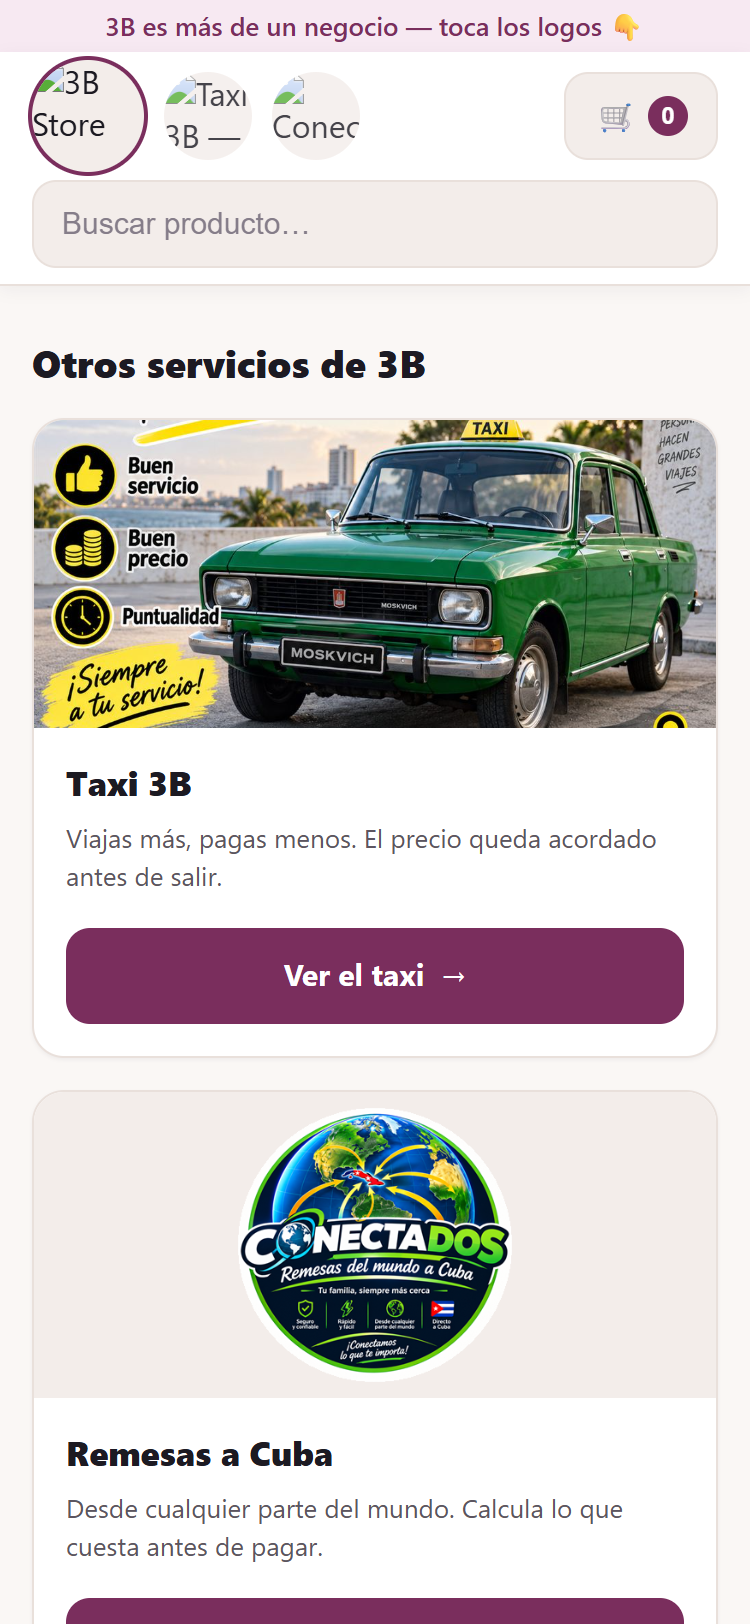
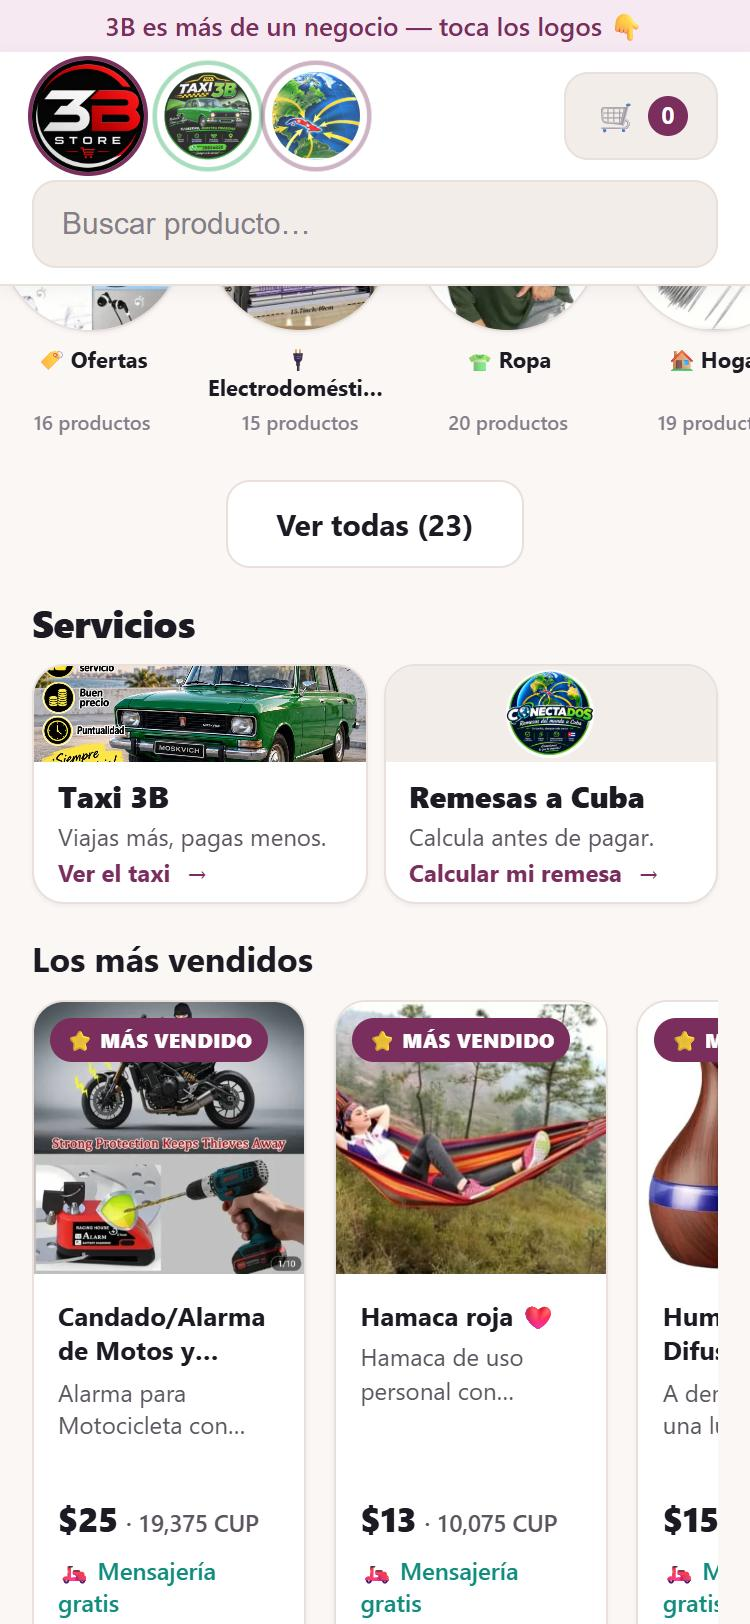
fix(tienda): los servicios suben junto a las categorias; al final nadie los veia
La seccion de servicios (taxi y remesas) quedaba al final de la pagina, a unos 45.400 px del
principio: en un movil nadie llega ahi, asi que los servicios no se daban a conocer.

Ahora va entre la franja de categorias y la parrilla, y es compacta (una fila): dos tarjetas lado
a lado tambien a 375 px, banner de una tira de 48 px, una linea de texto y el enlace como texto
(cubre toda la tarjeta). Titulo corto: «Servicios». A 375 px mide 153 px de alto y queda a ~840 px
del inicio. En escritorio, #catalogo deja de fijar grid-row para que la seccion ocupe su fila.
No cambia renderServicios(), los interruptores ni los enlaces.

diff --git a/estilos.css b/estilos.css
@@ -482,7 +482,7 @@ main{padding-top:20px}
   /* min-width:0 — sin esto, el ancho natural de la tira de más vendidos
      (max-content) estira a #catalogo por encima de su columna de 824px y se
      mete debajo del carrito lateral. minmax(0,1fr) sujeta la PISTA, no el ÍTEM. */
-  #catalogo{grid-column:1;grid-row:2;min-width:0}
+  #catalogo{grid-column:1;min-width:0}   /* sin grid-row fijo: #servicios (opcional) va entre las categorias y el */
 }
 
 /* ── Carrito lateral — solo escritorio (≥1024px) ──
@@ -1057,27 +1057,41 @@ button.footer-link{background:none;border:none;font-family:inherit;cursor:pointe
 .enc-pausado-titulo{font-size:var(--t-2xl);font-weight:800;line-height:1.2;letter-spacing:-.01em;color:var(--brand)}
 .enc-pausado-texto{font-size:var(--t-md);line-height:1.55;color:var(--text-2);max-width:44ch;margin:0 auto}
 
-/* ── Otros servicios de 3B (taxi, remesas) ──
-   Seccion propia, DEBAJO de la parrilla: quien entra a comprar, compra. Solo tokens
-   existentes (--surface, --border, --text*, --radio-card…) para que el modo oscuro la invierta. */
-.servicios{margin:var(--e5) 0 var(--e3)}
-.servicios-titulo{font-size:var(--t-xl);font-weight:800;line-height:1.25;margin:0 0 var(--e3)}
-.servicios-lista{display:grid;grid-template-columns:1fr;gap:var(--e3)}
+/* ── Servicios de 3B (taxi, remesas) ──
+   Entre las categorias y la parrilla (antes iba al final y quedaba a 45.400px: nadie la veia).
+   Por eso es COMPACTA: dos tarjetas lado a lado tambien a 375px, banner de una tira y una linea
+   de texto. Solo tokens existentes (--surface, --border, --text*, --brand...) para que el modo
+   oscuro la invierta. El enlace cubre toda la tarjeta (::after) y se ve como texto, no como boton. */
+.contenido .servicios{margin-top:var(--e3);margin-bottom:var(--e3)}
+.servicios-titulo{font-size:var(--t-xl);font-weight:800;letter-spacing:-.01em;line-height:1.25;margin:0 0 var(--e1)}
+.servicios-lista{display:grid;grid-template-columns:repeat(2,minmax(0,1fr));gap:var(--e1)}
 .serv{
-  display:flex;flex-direction:column;min-width:0;overflow:hidden;
+  position:relative;display:flex;flex-direction:column;min-width:0;overflow:hidden;
   background:var(--surface);color:var(--text);
   border:1px solid var(--border);border-radius:var(--radio-card);box-shadow:var(--sombra-1);
 }
 .serv[hidden]{display:none}
-/* Caja con la proporcion de la portada del taxi (1000x450): se ve ENTERA, sin recortar el texto. */
-.serv-banner{position:relative;aspect-ratio:20/9;background:var(--surface-2);overflow:hidden}
-.serv-banner img{position:absolute;inset:0;width:100%;height:100%;object-fit:cover;display:block}
+.serv-banner{position:relative;height:48px;background:var(--surface-2);overflow:hidden}
+.serv-banner img{position:absolute;inset:0;width:100%;height:100%;object-fit:cover;object-position:50% 55%;display:block}
 /* El emblema de remesas es un circulo con fondo transparente: se enseña entero, sin recortar. */
-.serv-banner-emblema img{object-fit:contain;padding:var(--e1);box-sizing:border-box}
-.serv-cuerpo{display:flex;flex-direction:column;gap:var(--e1);padding:var(--e3);flex:1}
-.serv-nombre{font-size:var(--t-lg);font-weight:800;line-height:1.3;margin:0}
-.serv-texto{font-size:var(--t-sm);line-height:1.45;color:var(--text-2);margin:0;flex:1}
-.serv-btn{margin-top:var(--e1);width:100%}
-@media (min-width:640px){
-  .servicios-lista{grid-template-columns:repeat(2,minmax(0,1fr))}
+.serv-banner-emblema img{object-fit:contain;object-position:center;padding:2px;box-sizing:border-box}
+.serv-cuerpo{display:flex;flex-direction:column;gap:2px;padding:var(--e1) var(--e2);flex:1}
+.serv-nombre{font-size:var(--t-md);font-weight:800;line-height:1.3;margin:0}
+.serv-texto{font-size:var(--t-xs);line-height:1.35;color:var(--text-2);margin:0;flex:1}
+.serv .serv-btn{
+  background:transparent;color:var(--brand);box-shadow:none;border:0;border-radius:0;
+  min-height:0;padding:0;margin-top:2px;width:auto;justify-content:flex-start;
+  font-size:var(--t-xs);font-weight:700;
+}
+.serv .serv-btn::after{content:"";position:absolute;inset:0}
+.serv .serv-btn:focus-visible{outline:0}
+.serv:has(.serv-btn:focus-visible){outline:3px solid var(--brand);outline-offset:2px}
+@media (min-width:760px){
+  .serv-banner{height:64px}
+  .serv-cuerpo{padding:var(--e2) var(--e3)}
+  .serv-texto{font-size:var(--t-sm)}
+  .serv .serv-btn{font-size:var(--t-sm)}
+}
+@media (min-width:1024px){
+  .servicios{grid-column:1}
 }

diff --git a/index.html b/index.html
@@ -164,6 +164,32 @@
     </div>
   </section>
 
+  <!-- Servicios de 3B (taxi y remesas), entre las categorias y la parrilla: al final de la pagina quedaba a 45.400px y nadie la veia. NO es una categoria: una categoria sin productos no se pinta
+       (app.js, renderCategorias3D), asi que esto es una seccion propia. Oculta por defecto;
+       renderServicios() (app.js) la destapa con tienda.taxiActivo / tienda.conectadosActivo.
+       Sin onclick: es un enlace de verdad (la CSP bloquea los manejadores en linea). -->
+  <section id="servicios" class="servicios wrap" hidden aria-labelledby="servicios-titulo">
+    <h2 id="servicios-titulo" class="servicios-titulo">Servicios</h2>
+    <div class="servicios-lista">
+      <article class="serv" id="serv-taxi" hidden>
+        <div class="serv-banner"><img src="taxi-portada.jpg" width="1000" height="450" loading="lazy" alt="Taxi 3B"></div>
+        <div class="serv-cuerpo">
+          <h3 class="serv-nombre">Taxi 3B</h3>
+          <p class="serv-texto">Viajas más, pagas menos.</p>
+          <a class="btn btn-primario serv-btn" href="/taxi">Ver el taxi <span aria-hidden="true">→</span></a>
+        </div>
+      </article>
+      <article class="serv" id="serv-remesas" hidden>
+        <div class="serv-banner serv-banner-emblema"><img src="conectados-emblema.png" width="320" height="320" loading="lazy" alt="Conectados — remesas a Cuba"></div>
+        <div class="serv-cuerpo">
+          <h3 class="serv-nombre">Remesas a Cuba</h3>
+          <p class="serv-texto">Calcula antes de pagar.</p>
+          <a class="btn btn-primario serv-btn" href="/remesas">Calcular mi remesa <span aria-hidden="true">→</span></a>
+        </div>
+      </article>
+    </div>
+  </section>
+
   <main class="wrap" id="catalogo">
     <section id="mas-vendidos" class="mv" hidden aria-labelledby="mv-titulo">
       <h2 id="mv-titulo" class="mv-titulo">Los más vendidos</h2>
@@ -192,31 +218,6 @@
       <p>No pudimos cargar el catálogo. Revisa tu conexión e intenta de nuevo.</p>
       <button id="btn-reintentar" class="btn btn-suave btn-secundario" type="button">Reintentar</button>
     </div>
-    <!-- Otros servicios de 3B. NO es una categoria: una categoria sin productos no se pinta
-         (app.js, renderCategorias3D), asi que esto es una seccion propia. Oculta por defecto;
-         renderServicios() (app.js) la destapa con tienda.taxiActivo / tienda.conectadosActivo.
-         Sin onclick: es un enlace de verdad (la CSP bloquea los manejadores en linea). -->
-    <section id="servicios" class="servicios" hidden aria-labelledby="servicios-titulo">
-      <h2 id="servicios-titulo" class="servicios-titulo">Otros servicios de 3B</h2>
-      <div class="servicios-lista">
-        <article class="serv" id="serv-taxi" hidden>
-          <div class="serv-banner"><img src="taxi-portada.jpg" width="1000" height="450" loading="lazy" alt="Taxi 3B"></div>
-          <div class="serv-cuerpo">
-            <h3 class="serv-nombre">Taxi 3B</h3>
-            <p class="serv-texto">Viajas más, pagas menos. El precio queda acordado antes de salir.</p>
-            <a class="btn btn-primario serv-btn" href="/taxi">Ver el taxi <span aria-hidden="true">→</span></a>
-          </div>
-        </article>
-        <article class="serv" id="serv-remesas" hidden>
-          <div class="serv-banner serv-banner-emblema"><img src="conectados-emblema.png" width="320" height="320" loading="lazy" alt="Conectados — remesas a Cuba"></div>
-          <div class="serv-cuerpo">
-            <h3 class="serv-nombre">Remesas a Cuba</h3>
-            <p class="serv-texto">Desde cualquier parte del mundo. Calcula lo que cuesta antes de pagar.</p>
-            <a class="btn btn-primario serv-btn" href="/remesas">Calcular mi remesa <span aria-hidden="true">→</span></a>
-          </div>
-        </article>
-      </div>
-    </section>
   </main>
 
   <!-- Carrito lateral: solo visible en escritorio (≥1024px, ver estilos.css).
